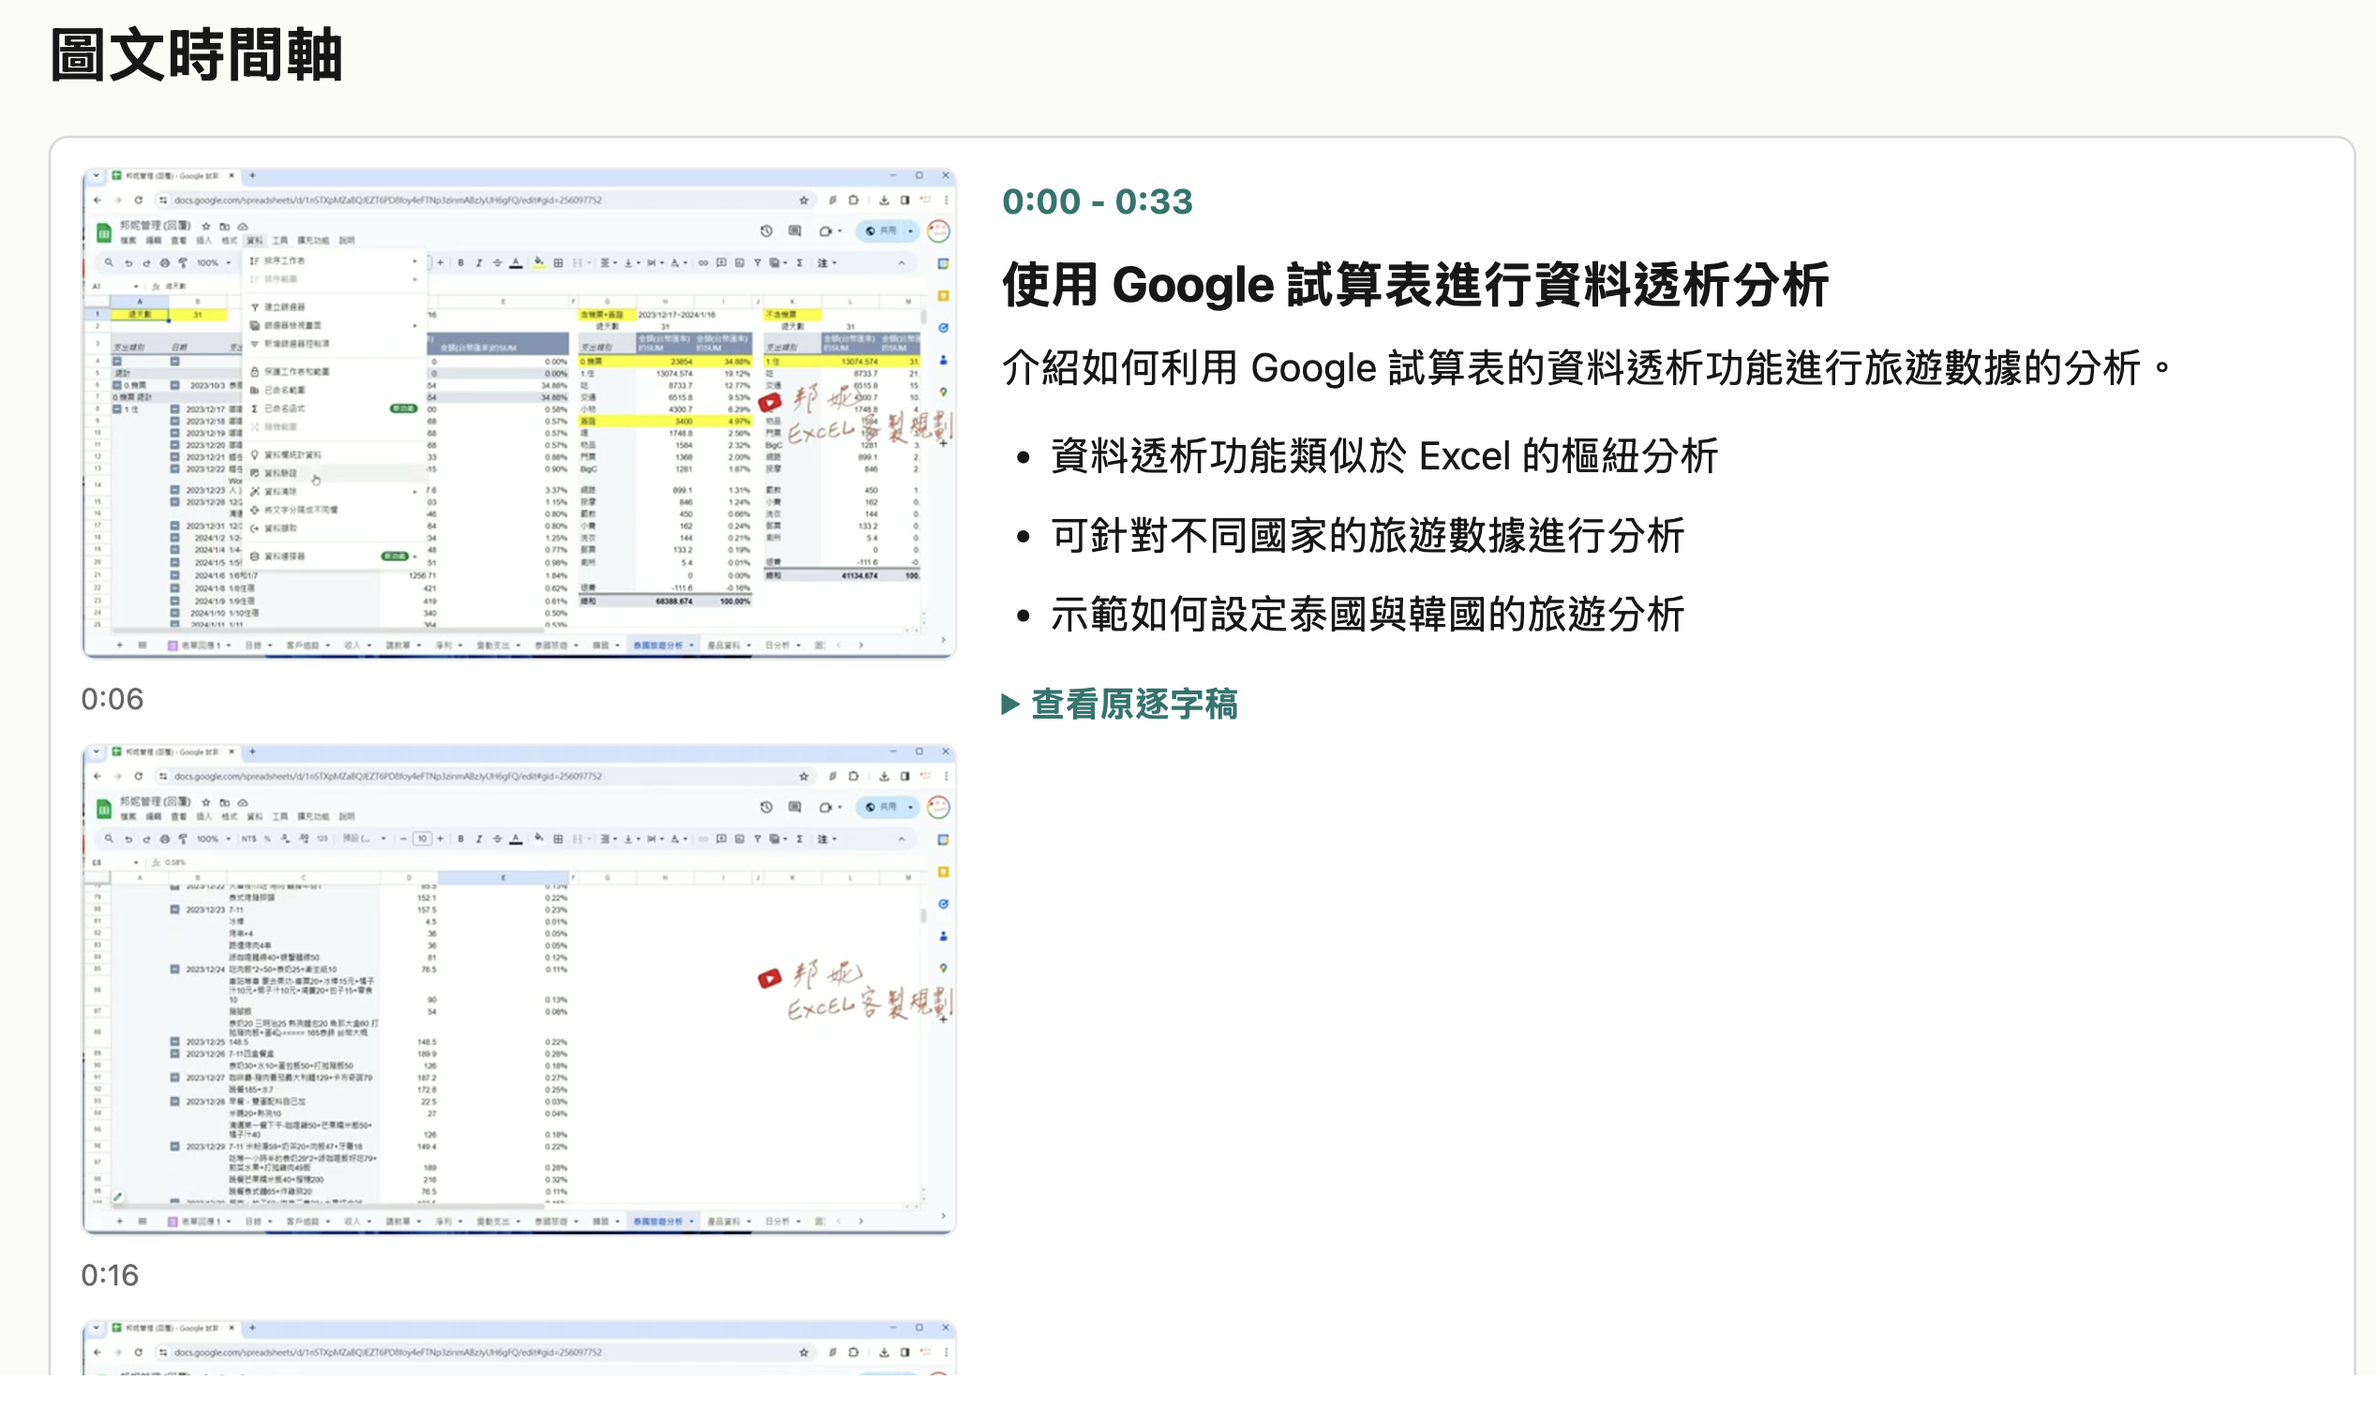
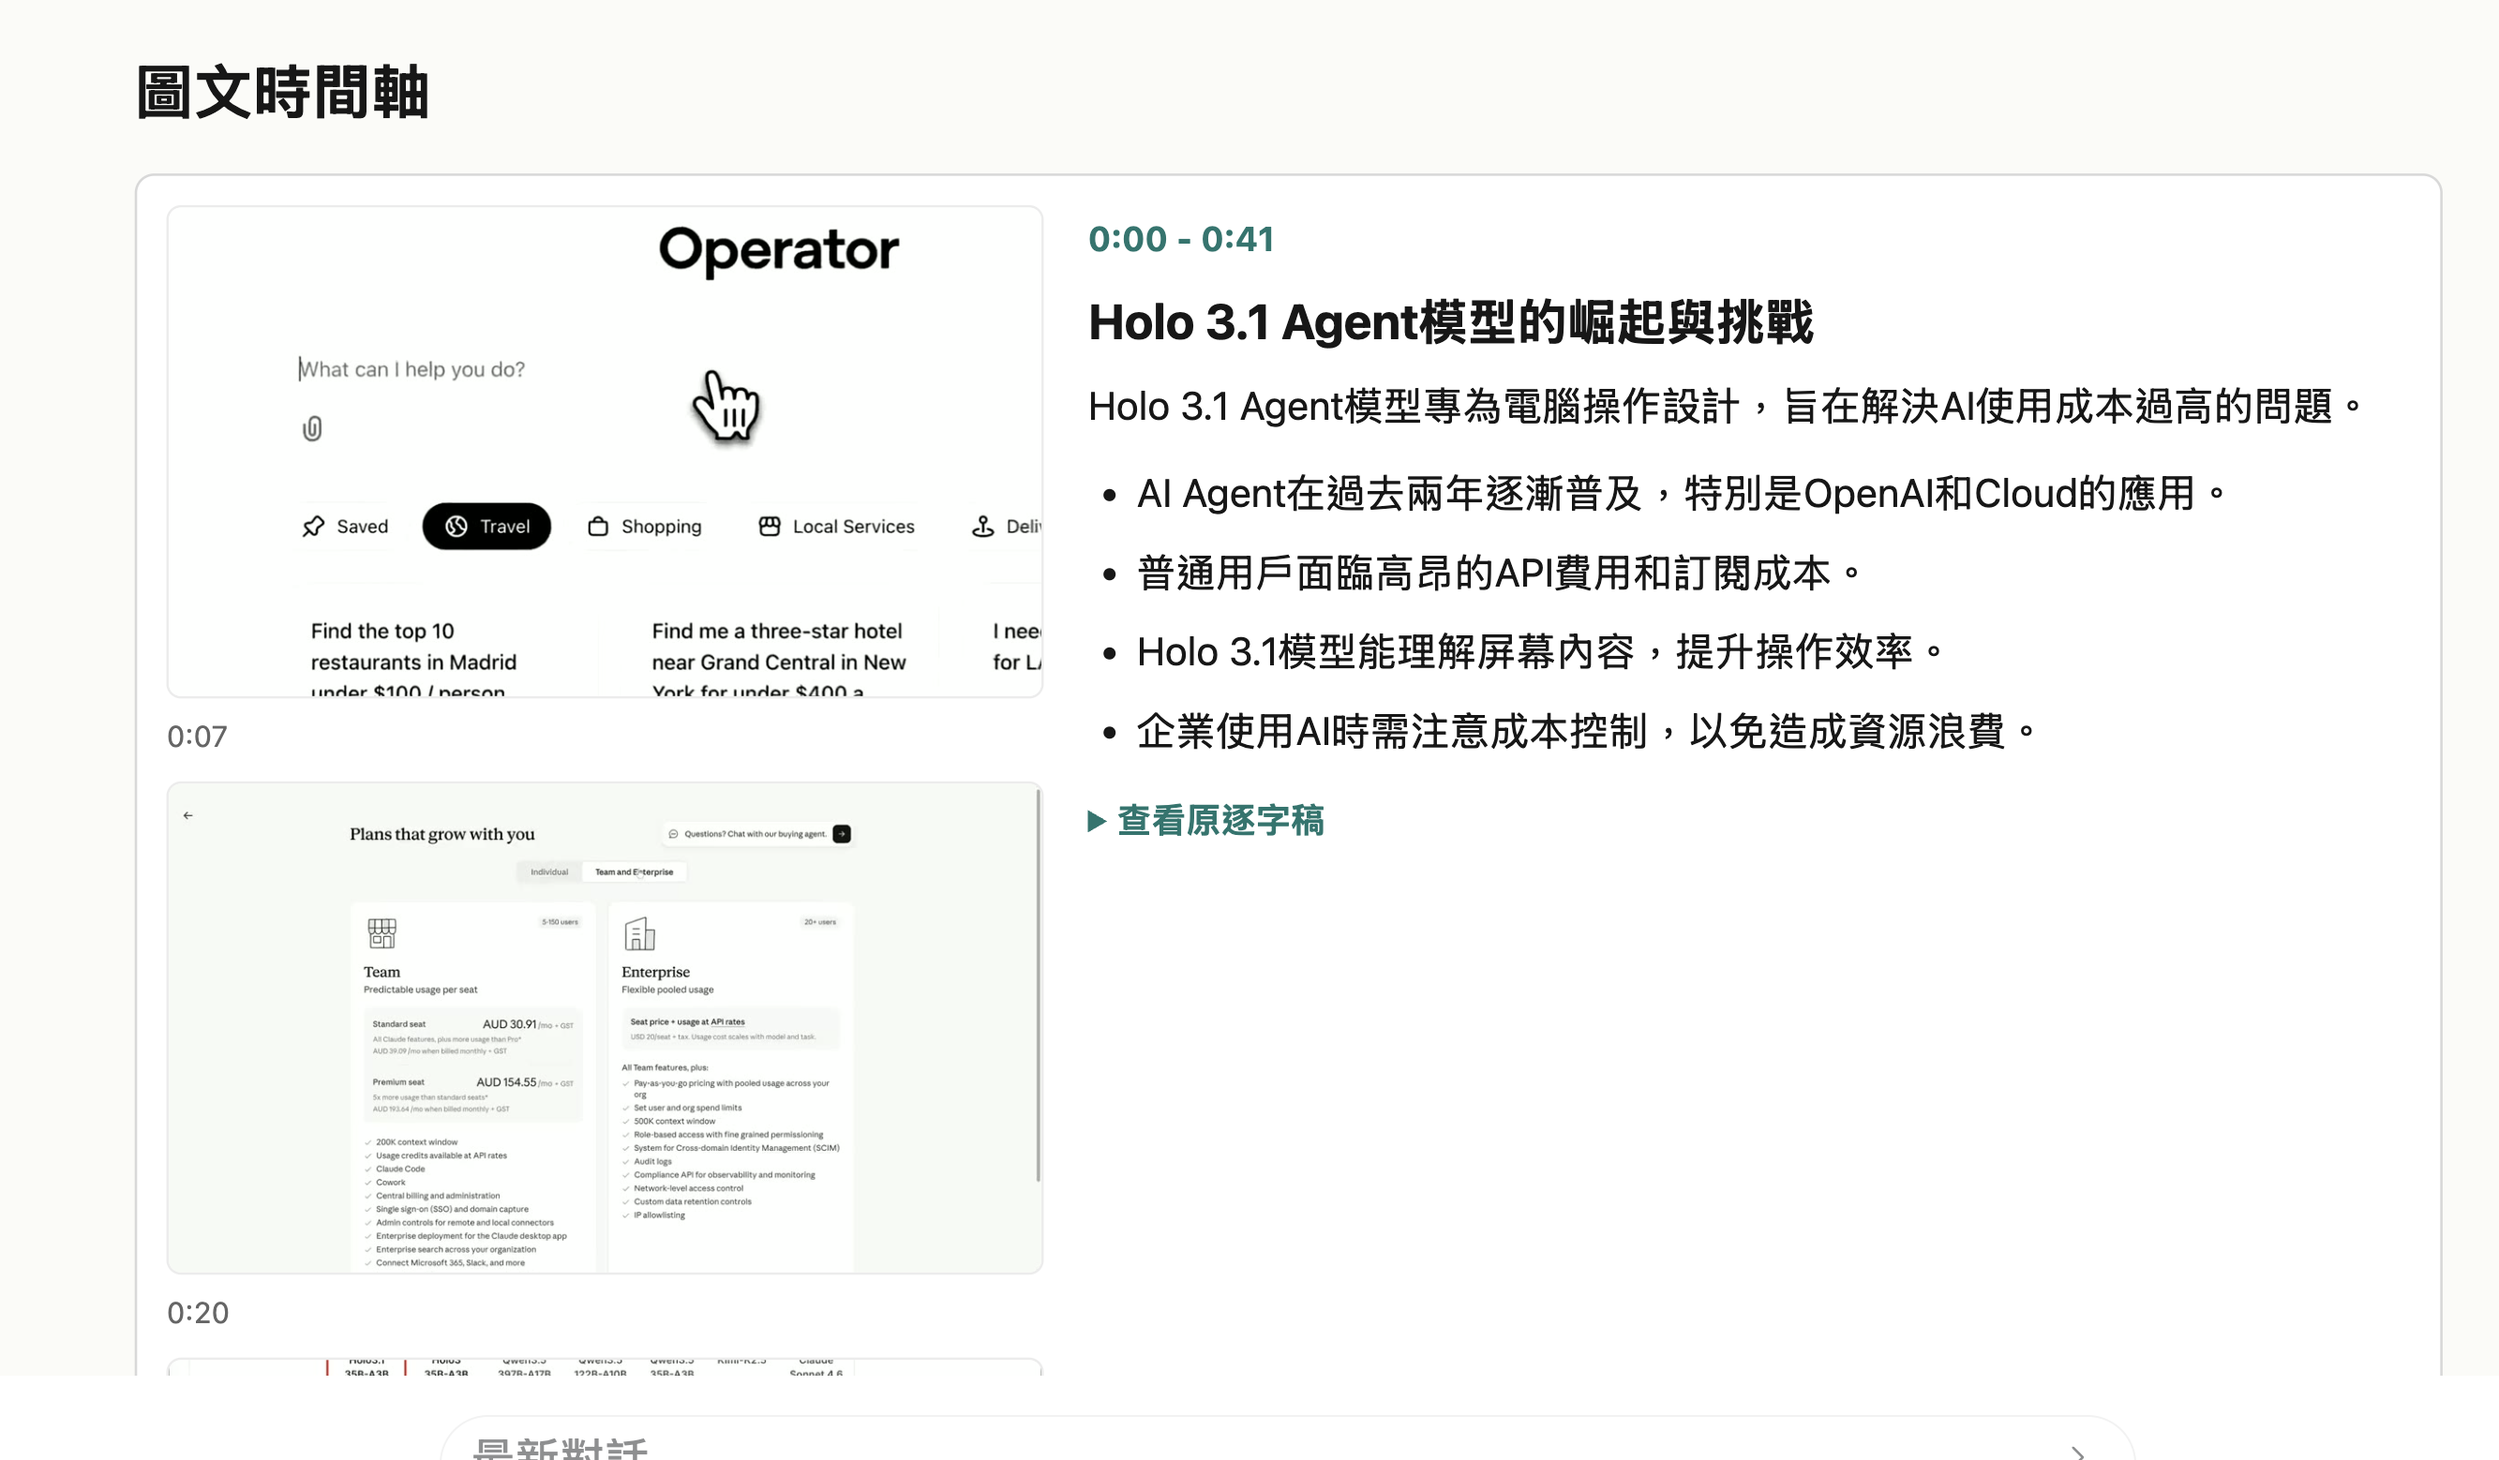
Add article: Fable 5 發布 24 小時被扒穿 — 對齊技術 vs 結構化攻擊

Changed region(s): [[0.0, 0.0, 0.9345, 0.593], [0.0312, 0.4993, 0.405, 0.905], [0.0312, 0.9363, 0.405, 1.0]]

diff --git a/_posts/2026-06-17-video-to-meeting-note-best-practices-whisper-screenshot-alignment.md b/_posts/2026-06-17-video-to-meeting-note-best-practices-whisper-screenshot-alignment.md
@@ -1,9 +1,9 @@
 ---
 layout: post
 title: "用 AI 把教學影片變成圖文筆記：逐字稿、摘要、截圖對齊的 Best Practices"
-date: 2026-06-17 07:03:55 +0800
+date: 2026-06-17 05:51:15 +0800
 permalink: /video-to-meeting-note-best-practices-whisper-screenshot-alignment/
-image: /assets/images/video-meeting-note-holo-agent-demo.png
+image: /assets/images/video-meeting-note-timeline-demo.png
 description: "**作者：** Wisely Chen **日期：** 2026 年 6 月 **系列：** AI 工具實戰 **關鍵字：** AI, Whisper, Meeting Notes, Video Processing, 圖文筆記, Screenshot Alignment, PM 訪談, PRD"
 ---
 
@@ -73,11 +73,9 @@ Microsoft 也一樣。Teams 錄影直接存進 OneDrive，它有 Azure 的語音
 
 我最近拿一支 YouTube 技術教學影片（[Holo 3.1 Agent 模型介紹](https://www.youtube.com/watch?v=p6ScdPXdaX4)）來實際跑這套流程，踩了不少坑。做完之後最大的發現是：**這件事最容易做錯的地方不是「有沒有轉出文字」，而是「最後產物到底像不像一份人會想讀的筆記」。**
 
-下面是兩個實際產出的圖文時間軸。第一個是用 Holo 3.1 Agent 教學影片跑出來的，第二個是 Google 試算表教學：
+下面是實際產出的圖文時間軸，每段摘要旁邊就是該段的畫面截圖：
 
-![Holo 3.1 Agent 教學影片的圖文時間軸產出](/assets/images/video-meeting-note-holo-agent-demo.png)
-
-![Google 試算表教學影片的圖文時間軸產出](/assets/images/video-meeting-note-timeline-demo.png)
+![圖文時間軸實際產出：每段有截圖、小標題、摘要和可展開的逐字稿](/assets/images/video-meeting-note-timeline-demo.png)
 
 ---
 
